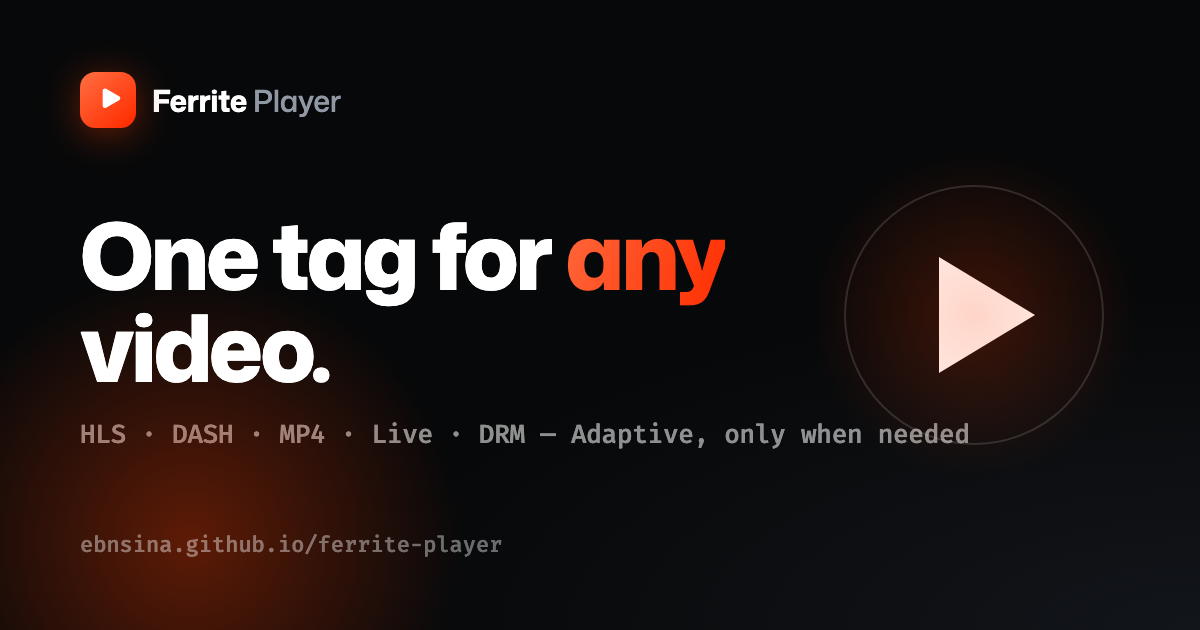
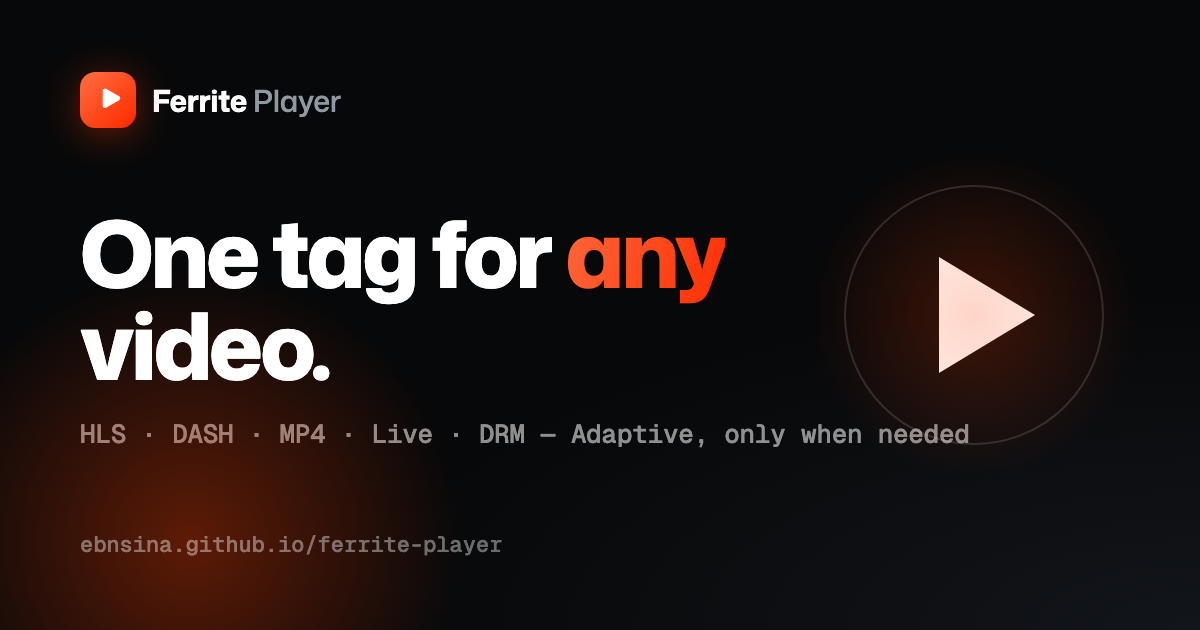
style(site): rounded-xl corners + Geist Mono
- Set the single --radius token to 12px (rounded-xl) → every button and
  card rounds together; sharp edges didn't suit the design
- Swap the mono typeface to self-hosted Geist Mono (drop Fira Mono),
  including the OG card (regenerated)

diff --git a/docs/style.css b/docs/style.css
@@ -8,14 +8,14 @@
   font-display: swap;
 }
 @font-face {
-  font-family: "Fira Mono";
-  src: url("./fonts/FiraMono-400.woff2") format("woff2");
+  font-family: "Geist Mono";
+  src: url("./fonts/GeistMono-400.woff2") format("woff2");
   font-weight: 400;
   font-display: swap;
 }
 @font-face {
-  font-family: "Fira Mono";
-  src: url("./fonts/FiraMono-500.woff2") format("woff2");
+  font-family: "Geist Mono";
+  src: url("./fonts/GeistMono-500.woff2") format("woff2");
   font-weight: 500;
   font-display: swap;
 }
@@ -25,11 +25,11 @@
   --accent: #ff3e00;
   --accent-2: #ff6a3d;
   --accent-glow: rgba(255, 62, 0, 0.35);
-  --radius: 0; /* sharp-edged aesthetic */
+  --radius: 12px; /* rounded-xl — one token drives every corner */
   --maxw: 1140px;
   --code-bg: #0b0d10; /* code blocks stay dark in both themes */
   --sans: "Mona Sans", system-ui, -apple-system, "Segoe UI", sans-serif;
-  --mono: "Fira Mono", ui-monospace, "SF Mono", Menlo, monospace;
+  --mono: "Geist Mono", ui-monospace, "SF Mono", Menlo, monospace;
 
   /* dark theme (default) */
   color-scheme: dark;

diff --git a/docs/og.html b/docs/og.html
@@ -4,7 +4,7 @@
     <meta charset="utf-8" />
     <style>
       @font-face { font-family: "Mona Sans"; src: url("./fonts/MonaSans.woff2") format("woff2"); font-weight: 200 900; }
-      @font-face { font-family: "Fira Mono"; src: url("./fonts/FiraMono-500.woff2") format("woff2"); font-weight: 500; }
+      @font-face { font-family: "Geist Mono"; src: url("./fonts/GeistMono-500.woff2") format("woff2"); font-weight: 500; }
       * { margin: 0; box-sizing: border-box; }
       html, body { width: 1200px; height: 630px; overflow: hidden; }
       body {
@@ -20,8 +20,8 @@
       .brand b span { color: #9098a3; font-weight: 500; }
       h1 { font-size: 92px; line-height: 1.0; font-weight: 800; letter-spacing: -.04em; position: relative; }
       .g { background: linear-gradient(110deg, #ff6a3d, #ff2d00); -webkit-background-clip: text; background-clip: text; -webkit-text-fill-color: transparent; }
-      .sub { font-family: "Fira Mono", monospace; font-size: 26px; color: rgba(255,255,255,.55); margin-top: 26px; letter-spacing: -.01em; }
-      .foot { font-family: "Fira Mono", monospace; font-size: 22px; color: rgba(255,255,255,.4); position: relative; }
+      .sub { font-family: "Geist Mono", monospace; font-size: 26px; color: rgba(255,255,255,.55); margin-top: 26px; letter-spacing: -.01em; }
+      .foot { font-family: "Geist Mono", monospace; font-size: 22px; color: rgba(255,255,255,.4); position: relative; }
       .glyph { position: absolute; right: 96px; top: 50%; transform: translateY(-50%); width: 260px; height: 260px;
         border-radius: 50%; border: 2px solid rgba(255,255,255,.14); display: grid; place-items: center; }
       .glyph::before { content: ""; position: absolute; inset: -60px; border-radius: 50%; background: radial-gradient(circle, rgba(255,62,0,.22), transparent 62%); }